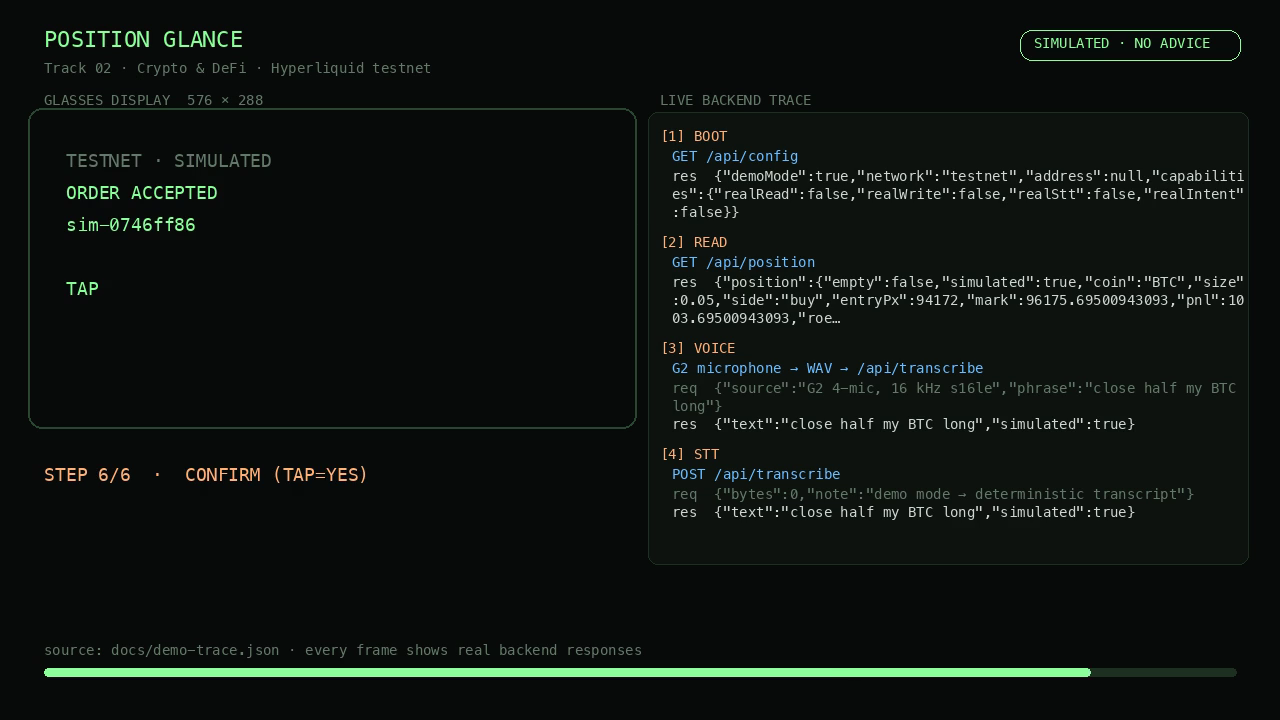
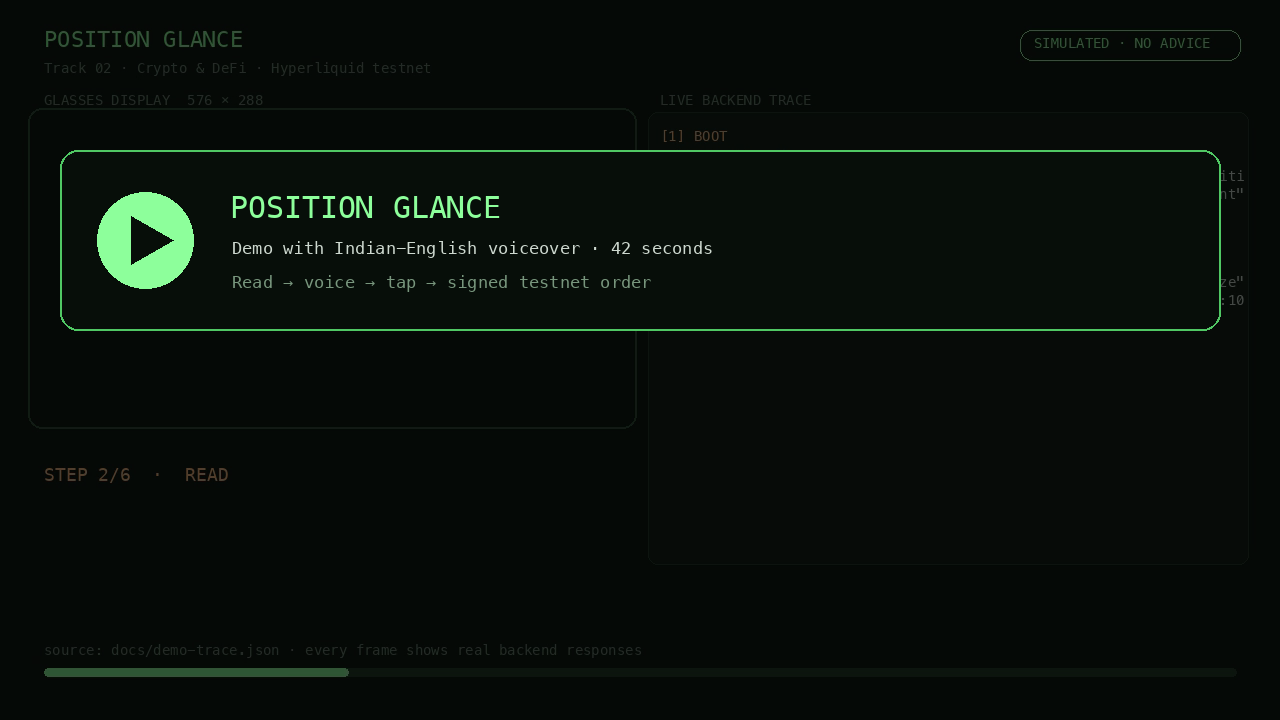
Put clickable narrated video poster at top of README

diff --git a/tools/make_poster.py b/tools/make_poster.py
@@ -1,0 +1,55 @@
+#!/usr/bin/env python3
+"""Build a clickable README poster from a frame of the narrated demo video."""
+import shutil
+import subprocess
+import tempfile
+from pathlib import Path
+
+from PIL import Image, ImageDraw, ImageFont
+
+ROOT = Path(__file__).resolve().parent.parent
+DOCS = ROOT / "docs"
+VIDEO = DOCS / "demo-voice.mp4"
+OUT = DOCS / "demo-poster.png"
+
+
+def font(size):
+    for p in ("/System/Library/Fonts/Menlo.ttc", "/usr/share/fonts/truetype/dejavu/DejaVuSansMono.ttf"):
+        if Path(p).exists():
+            return ImageFont.truetype(p, size)
+    return ImageFont.load_default()
+
+
+def main():
+    if shutil.which("ffmpeg") is None:
+        raise SystemExit("ffmpeg not found")
+    with tempfile.TemporaryDirectory() as tmp:
+        frame = Path(tmp) / "frame.png"
+        subprocess.run(["ffmpeg", "-y", "-loglevel", "error", "-ss", "12", "-i", str(VIDEO),
+                        "-frames:v", "1", str(frame)], check=True)
+        img = Image.open(frame).convert("RGBA")
+        W, H = img.size
+
+        # Darken the left/centre so the overlay reads, keep the right API trace visible.
+        veil = Image.new("RGBA", (W, H), (4, 8, 5, 175))
+        img = Image.alpha_composite(img, veil)
+
+        d = ImageDraw.Draw(img)
+        d.rounded_rectangle((60, 150, W - 60, 330), radius=18, fill=(7, 14, 9, 225), outline=(80, 200, 100, 255), width=2)
+
+        # Play triangle
+        cx, cy, r = 145, 240, 48
+        d.ellipse((cx - r, cy - r, cx + r, cy + r), fill=(141, 255, 155, 255))
+        d.polygon([(cx - 14, cy - 24), (cx - 14, cy + 24), (cx + 28, cy)], fill=(7, 14, 9, 255))
+
+        f1, f2 = font(30), font(17)
+        d.text((230, 190), "POSITION GLANCE", font=f1, fill=(141, 255, 155, 255))
+        d.text((232, 238), "Demo with Indian-English voiceover · 42 seconds", font=f2, fill=(205, 216, 207, 255))
+        d.text((232, 272), "Read → voice → tap → signed testnet order", font=f2, fill=(120, 150, 125, 255))
+
+        img.convert("RGB").save(OUT)
+    print(f"wrote {OUT}")
+
+
+if __name__ == "__main__":
+    main()

diff --git a/README.md b/README.md
@@ -12,11 +12,17 @@
 
 > One number. One sentence. One tap.
 
-![Position Glance preview](docs/demo.gif)
+## 🎬 Watch the demo
 
-**[Watch with Indian-English voiceover (MP4, 42s)](docs/demo-voice.mp4)** · [Silent version](docs/demo.mp4) · [Narration script](docs/narration-script.md) · [API trace](docs/demo-trace.json)
+[![Click to play the 42-second demo with Indian-English voiceover](docs/demo-poster.png)](docs/demo-voice.mp4)
 
-The voiceover uses macOS's built-in **Rishi (en-IN)** voice at a natural conversational pace — no cloud TTS and no "AI narrator" phrasing. Regenerate with `python3 tools/add_narration.py` after `python3 tools/make_demo.py`.
+**Click the poster above to play the narrated video.** It opens the MP4 directly in GitHub with sound on. Prefer a silent autoplay loop? It's right here:
+
+![Position Glance live API trace](docs/demo.gif)
+
+[▶ Watch with voiceover (MP4, 42s)](docs/demo-voice.mp4) · [Silent MP4](docs/demo.mp4) · [Standalone audio](docs/demo-narration.m4a) · [Narration script](docs/narration-script.md) · [API trace](docs/demo-trace.json)
+
+The voiceover uses macOS's built-in **Rishi (en-IN)** voice at a natural conversational pace — no cloud TTS and no "AI narrator" phrasing. Regenerate with `python3 tools/make_demo.py`, `python3 tools/add_narration.py` and `python3 tools/make_poster.py`.
 
 ---
 
@@ -122,6 +128,8 @@ server/signer.mjs        one-use consent tokens, reduce-only testnet signing
 server/telegram.mjs      optional Track 01 bridge: pairing, status, YES/NO close, receipts
 demo/index.html          browser preview of the 576×288 lens + live API trace
 tools/make_demo.py       regenerates the demo video from a real API trace
+tools/add_narration.py   adds the Indian-English voiceover and muxes it
+tools/make_poster.py     builds the clickable README poster
 tests/smoke.mjs          8 dependency-free backend checks
 .github/workflows/ci.yml backend smoke test + client build
 docs/ARCHITECTURE.md     sequence diagram, safety boundaries, limitations
